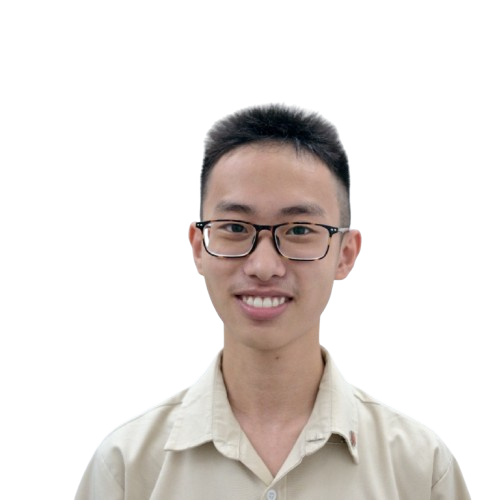
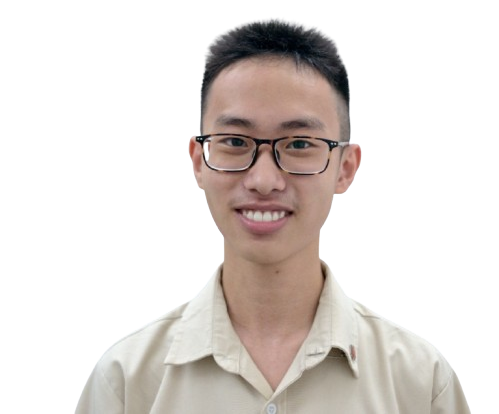
fix: minor update to css

diff --git a/components/contact-section.tsx b/components/contact-section.tsx
@@ -11,18 +11,18 @@ export default function ContactSection() {
           <p className="text-lg text-gray-600 mb-6">
             Feel free to reach out via email or connect with me on LinkedIn and GitHub!
           </p>
-          <div className="space-y-4">
+          <div className="space-y-4 md:pl-6">
             <a
               href="mailto:dillionlim2004@gmail.com"
-              className="flex items-center justify-center text-lg text-blue-600 hover:text-blue-800"
+              className="flex items-center w-full text-lg text-blue-600 hover:text-blue-800 text-left"
             >
-              <FaEnvelope className="mr-3" /> Email (dillionlim2004@gmail.com)
+              <FaEnvelope className="mr-3" /> dillionlim2004@gmail.com
             </a>
             <a
               href="https://linkedin.com/in/dillion-lim"
               target="_blank"
               rel="noopener noreferrer"
-              className="flex items-center justify-center text-lg text-blue-600 hover:text-blue-800"
+              className="flex items-center w-full text-lg text-blue-600 hover:text-blue-800 text-left"
             >
               <FaLinkedin className="mr-3" /> LinkedIn
             </a>
@@ -30,7 +30,7 @@ export default function ContactSection() {
               href="https://github.com/dillionlim"
               target="_blank"
               rel="noopener noreferrer"
-              className="flex items-center justify-center text-lg text-blue-600 hover:text-blue-800"
+              className="flex items-center w-full text-lg text-blue-600 hover:text-blue-800 text-left"
             >
               <FaGithub className="mr-3" /> GitHub
             </a>

diff --git a/components/intro-section/intro-section.tsx b/components/intro-section/intro-section.tsx
@@ -28,7 +28,7 @@ export default function IntroSection () {
                 <div className="text-xl md:text-2xl">
                 <TypewriterEffect words={interests} />
                 </div>
-                <div className="flex gap-6 mt-6 py-6">
+                <div className="flex gap-x-6 mt-6 pt-6 md:py-6">
                     <a
                         href="mailto:dillionlim2004@gmail.com"
                         target="_blank"
@@ -58,8 +58,8 @@ export default function IntroSection () {
                     </a>
                 </div>
             </div>
-            <div className="relative w-40 h-40 md:w-96 md:h-96">
-                <div className="absolute inset-0 rounded-2xl overflow-hidden backdrop-blur-sm">
+            <div className="relative w-64 h-56 md:w-96 md:h-96 -mb-8">
+                <div className="absolute inset-0 rounded-2xl overflow-hidden">
                 <div className="w-full h-full bg-[url('/images/photo.png')] bg-cover bg-center" />
                 </div>
             </div>
